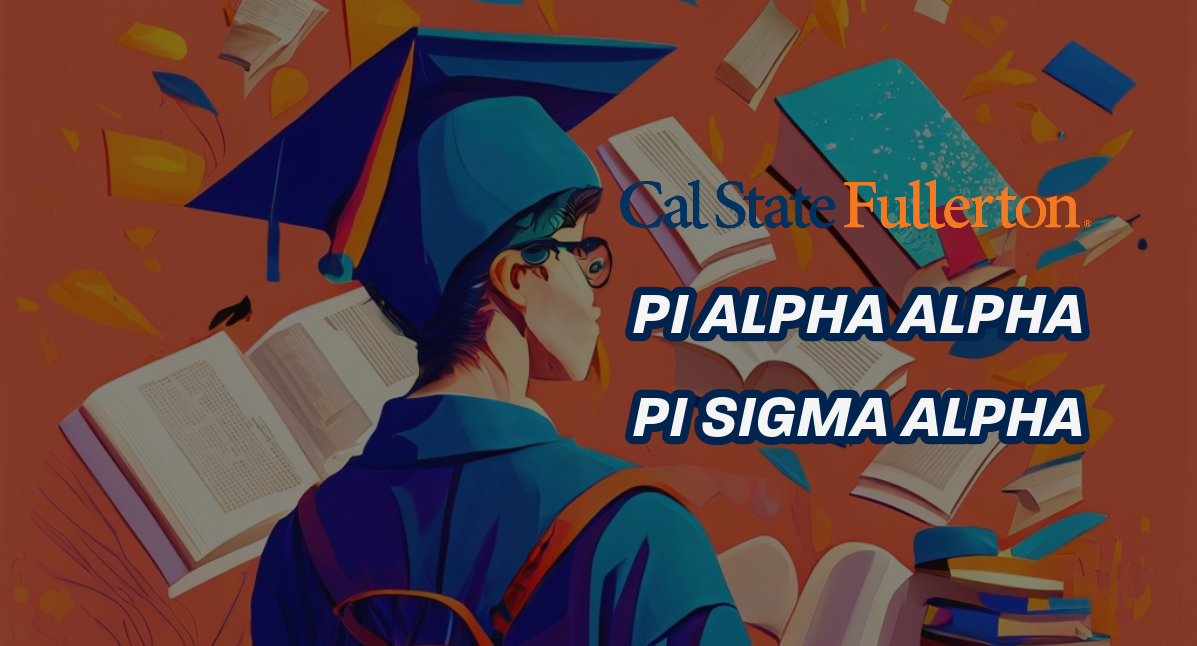
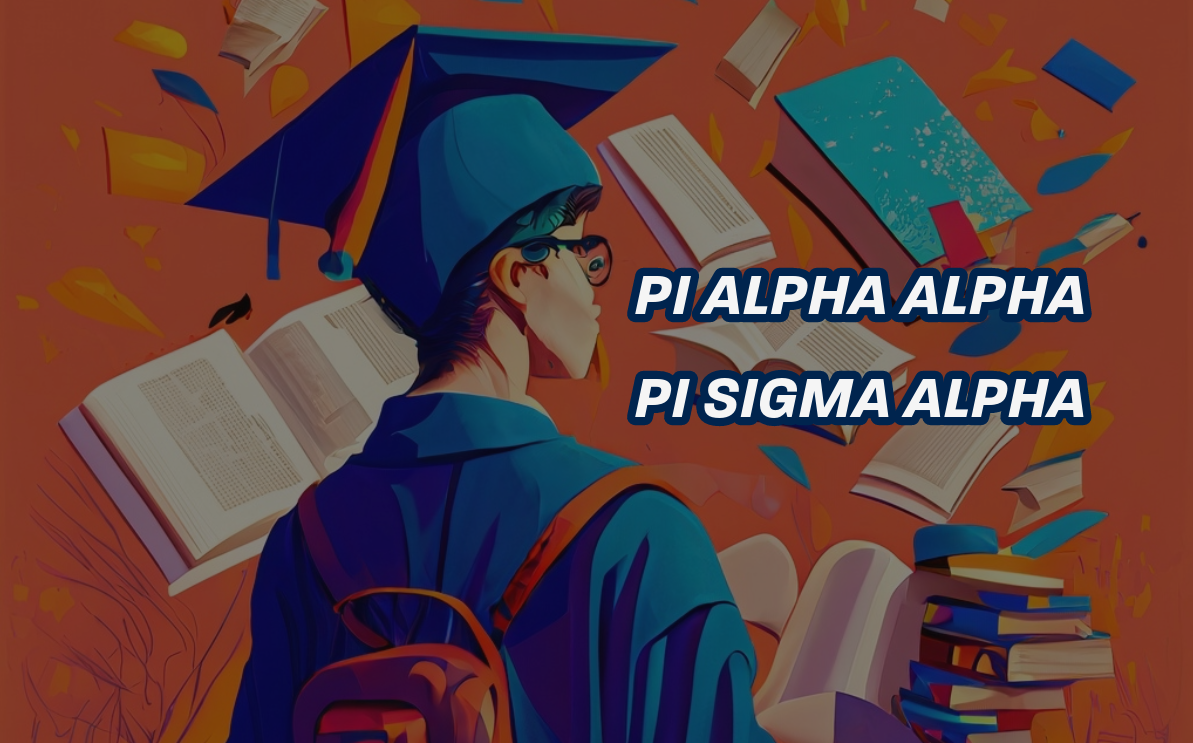
a;lkfjas;ldkfj

diff --git a/index.html b/index.html
@@ -70,53 +70,51 @@
         </header>
          
         
-        <!-- Societies-->
-        <section class="page-section" id="socities">
-            <div class="container">
-                <div class="text-center">
-                    <h2 class="section-heading text-uppercase">Find out More</h2>
-                    <h3 class="section-subheading text-muted">Discover Public Administration and Political Science Honor Societies</h3>
-                </div>
-             
-		<!-- Cards -->
         <div class="container">
 
-            <div class="card-group">
-
-                <a href="#!"> 
-              <div class="card">
-                <div class="card-header">
-                  <h4>Pi Alpha Alpha</h4>  
-                </div>
-                
-                <div class="card-body">
-                  <p>Public Administration Honor Society, CSUF Chapter</p>
-                </div>
-                
-                <div class="card-footer text-center">
-                  <img src="../images/paa.png" class="img-fluid" alt="Pi Alpha Alpha logo">
-                </div>
-              </div>
-                </a>
-                <div><p></p></div>
+            <div class="row justify-content-center">
+          
+              <div class="col-md-6 col-lg-5">
                 <a href="#!">
-              <div class="card">
-                <div class="card-header">  
-                  <h4>Pi Sigma Alpha</h4>
-                </div>
-                
-                <div class="card-body">
-                  <p>Political Science Honor Society, Epsilon-Eta Chapter</p>
-                </div>
-                
-                <div class="card-footer text-center">
-                  <img src="../images/pisigmaalpha.jpeg" class="img-fluid" alt="Pi Sigma Alpha logo">
-                </div>
-              </div>
-                </a>
-            </div>
+                  <div class="card mb-4">
+                    <div class="card-header">
+                      <h4>Pi Alpha Alpha</h4>
+                    </div>
             
-          </div>
+                    <div class="card-body">
+                      <p>Public Administration Honor Society, CSUF Chapter</p>
+                    </div>
+            
+                    <div class="card-footer text-center">
+                      <img src="../images/paa.png" class="img-fluid" alt="Pi Alpha Alpha logo">
+                    </div>
+                  </div>
+                </a>
+              </div>
+          
+              <div class="col-md-6 col-lg-5">
+                <a href="#!">
+                  <div class="card mb-4">
+                    <div class="card-header">
+                      <h4>Pi Sigma Alpha</h4>
+                    </div>
+            
+                    <div class="card-body">
+                      <p>Political Science Honor Society, Epsilon-Eta Chapter</p>
+                    </div>
+            
+                    <div class="card-footer text-center">
+                      <img src="../images/pisigmaalpha.jpeg" class="img-fluid" alt="Pi Sigma Alpha logo">
+                    </div>
+                  </div>
+                </a>
+              </div>
+          
+            </div>
+        
+        </div>
+        
+  
     
         
           
